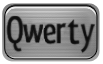
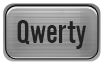
- added 'misc' page with more options - added ability for a TvKey to have text instead of an image or text on top of an image - added 3D mode button next to qwerty/source - updated qwerty button to look more like source button - bumped app version to 1.2 in preparation of release (after a few more u

Changed region(s): [[0.0, 0.0312, 0.9903, 0.9688], [0.6408, 0.5, 0.6699, 0.5312]]

diff --git a/MainPage.xaml b/MainPage.xaml
@@ -122,6 +122,8 @@
                         ImageLocation="Images/qwerty_btn.png" MyKey="KEY_INVALID" OnKeyPressed="OnQwertyButtonPressed"/>
                     <local:TvKeyControl Margin="25,487,327,57" Width="103" Height="64"
                         ImageLocation="Images/source_btn.png" MyKey="KEY_SOURCE"/>
+                    <local:TvKeyControl Margin="329,53,29,59" Width="103" Height="64"
+                        ImageLocation="Images/3d_btn.png" MyKey="KEY_PANNEL_CHDOWN"/>
                     <local:TvKeyControl Margin="329,490,29,59" Width="98" Height="58"
                         ImageLocation="Images/power_btn.png" MyKey="KEY_POWEROFF" OnKeyPressed="OnPowerButtonPressed"/>
 
@@ -196,6 +198,52 @@
                             ImageLocation="Images/color_btn04.png" MyKey="KEY_BLUE"/>
                 </Grid>
             </controls:PivotItem>
+
+            <controls:PivotItem Header="misc">
+                <Grid>
+                    <Grid.ColumnDefinitions>
+                        <ColumnDefinition Width="*"/>
+                        <ColumnDefinition Width="*"/>
+                    </Grid.ColumnDefinitions>
+
+                    <ListBox Grid.Column="0">
+                        <ListBox.Items>
+                            <local:TvKeyControl Text="Toggle Aspect Ratio" MyKey="KEY_ASPECT" Height="45"/>
+                            <local:TvKeyControl Text="Energy Saving Mode" MyKey="KEY_ESAVING" Height="45"/>
+                            <local:TvKeyControl Text="Sleep" MyKey="KEY_SLEEP" Height="45"/>
+                            <local:TvKeyControl Text="PIP Toggle" MyKey="KEY_PIP_ONOFF" Height="45"/>
+                            <local:TvKeyControl Text="PIP Size" MyKey="KEY_PIP_SIZE" Height="45"/>
+                            <local:TvKeyControl Text="PIP Swap" MyKey="KEY_PIP_SWAP" Height="45"/>
+                            <local:TvKeyControl Text="PIP Channel Up" MyKey="KEY_PIP_CHUP" Height="45"/>
+                            <local:TvKeyControl Text="PIP Channel Down" MyKey="KEY_PIP_CHDOWN" Height="45"/>
+                            <local:TvKeyControl Text="RSS" MyKey="KEY_RSS" Height="45"/>
+                            <local:TvKeyControl Text="Game" MyKey="KEY_GAME" Height="45"/>
+                            <local:TvKeyControl Text="Guide" MyKey="KEY_GUIDE" Height="45"/>
+                            <local:TvKeyControl Text="Social" MyKey="KEY_TURBO" Height="45"/>
+                            <local:TvKeyControl Text="E-Manual" MyKey="KEY_TOPMENU" Height="45"/>
+                            <local:TvKeyControl Text="W_Link" MyKey="KEY_W_LINK" Height="45"/>
+                            <local:TvKeyControl Text="MTS" MyKey="KEY_MTS" Height="45"/>
+                        </ListBox.Items>
+                    </ListBox>
+
+                    <ListBox Grid.Column="1">
+                        <ListBox.Items>
+                            <TextBlock Foreground="{StaticResource PhoneAccentBrush}" Text="Note: not all inputs work with all TVs" TextWrapping="Wrap"/>
+                            <local:TvKeyControl Text="Input HDMI" MyKey="KEY_HDMI" Height="45"/>
+                            <local:TvKeyControl Text="Input DVI" MyKey="KEY_DVI" Height="45"/>
+                            <local:TvKeyControl Text="Input Component 1" MyKey="KEY_COMPONENT1" Height="45"/>
+                            <local:TvKeyControl Text="Input Component 2" MyKey="KEY_COMPONENT2" Height="45"/>
+                            <local:TvKeyControl Text="Input SVideo 1" MyKey="KEY_SVIDEO1" Height="45"/>
+                            <local:TvKeyControl Text="Input SVideo 2" MyKey="KEY_SVIDEO2" Height="45"/>
+                            <local:TvKeyControl Text="Input SVideo 3" MyKey="KEY_SVIDEO3" Height="45"/>
+                            <local:TvKeyControl Text="Input AV 1" MyKey="KEY_AV1" Height="45"/>
+                            <local:TvKeyControl Text="Input AV 2" MyKey="KEY_AV2" Height="45"/>
+                            <local:TvKeyControl Text="Input AV 3" MyKey="KEY_AV3" Height="45"/>
+                            <local:TvKeyControl Text="TV" MyKey="KEY_TV" Height="45"/>
+                        </ListBox.Items>
+                    </ListBox>
+                </Grid>
+            </controls:PivotItem>
         </controls:Pivot>
 
         <Grid Background="{StaticResource PhoneBackgroundBrush}" Opacity="0.85" Name="TextInputOverlay" Visibility="Collapsed">
@@ -207,7 +255,7 @@
             </StackPanel>
         </Grid>
 
-        <Grid Background="{StaticResource PhoneBackgroundBrush}" Opacity="0.85" Name="TransparentOverlay" Visibility="Visible">
+        <Grid Background="{StaticResource PhoneBackgroundBrush}" Opacity="0" Name="TransparentOverlay" Visibility="Visible">
             <StackPanel VerticalAlignment="Center">
                 <ProgressBar
                     IsIndeterminate="true"

diff --git a/TvKeyControl.xaml b/TvKeyControl.xaml
@@ -14,5 +14,6 @@
     
     <Grid x:Name="LayoutRoot">
         <Image Name="Img"  Source="Images/keypad_00.png"/>
+        <TextBlock Name="Contents"  HorizontalAlignment="Center" VerticalAlignment="Center"/>
     </Grid>
 </UserControl>

diff --git a/TvKeyControl.xaml.cs b/TvKeyControl.xaml.cs
@@ -265,6 +265,7 @@ namespace SamsungRemoteWP7
         public BitmapImage NormalImage { get; private set; }
         public BitmapImage PressedImage { get; private set; }
         public string ImageLocation { get; set; }
+        public string Text { get; set; }
 
         public delegate void KeyPressedDelegate(object sender, EventArgs args);
         public event KeyPressedDelegate OnKeyPressed;
@@ -282,6 +283,15 @@ namespace SamsungRemoteWP7
                 PressedImage = new BitmapImage(new Uri(ImageLocation.Replace(System.IO.Path.GetExtension(ImageLocation), "_focus" + System.IO.Path.GetExtension(ImageLocation)), UriKind.Relative));
 
                 Img.Source = NormalImage;
+            }
+            else
+            {
+                Img.Source = null;
+            }
+
+            if (!string.IsNullOrWhiteSpace(Text))
+            {
+                Contents.Text = Text;
             }
         }
 

diff --git a/Properties/AssemblyInfo.cs b/Properties/AssemblyInfo.cs
@@ -32,6 +32,6 @@ using System.Resources;
 //
 // You can specify all the values or you can default the Revision and Build Numbers 
 // by using the '*' as shown below:
-[assembly: AssemblyVersion("1.1.0.0")]
-[assembly: AssemblyFileVersion("1.1.0.0")]
+[assembly: AssemblyVersion("1.2.0.0")]
+[assembly: AssemblyFileVersion("1.2.0.0")]
 [assembly: NeutralResourcesLanguageAttribute("en-US")]

diff --git a/MainPage.xaml.cs b/MainPage.xaml.cs
@@ -312,6 +312,7 @@ namespace SamsungRemoteWP7
                     }
 
                     TransparentOverlay.Visibility = Visibility.Visible;
+                    TransparentOverlay.Opacity = 0.85;
                 }
                 else
                 {
